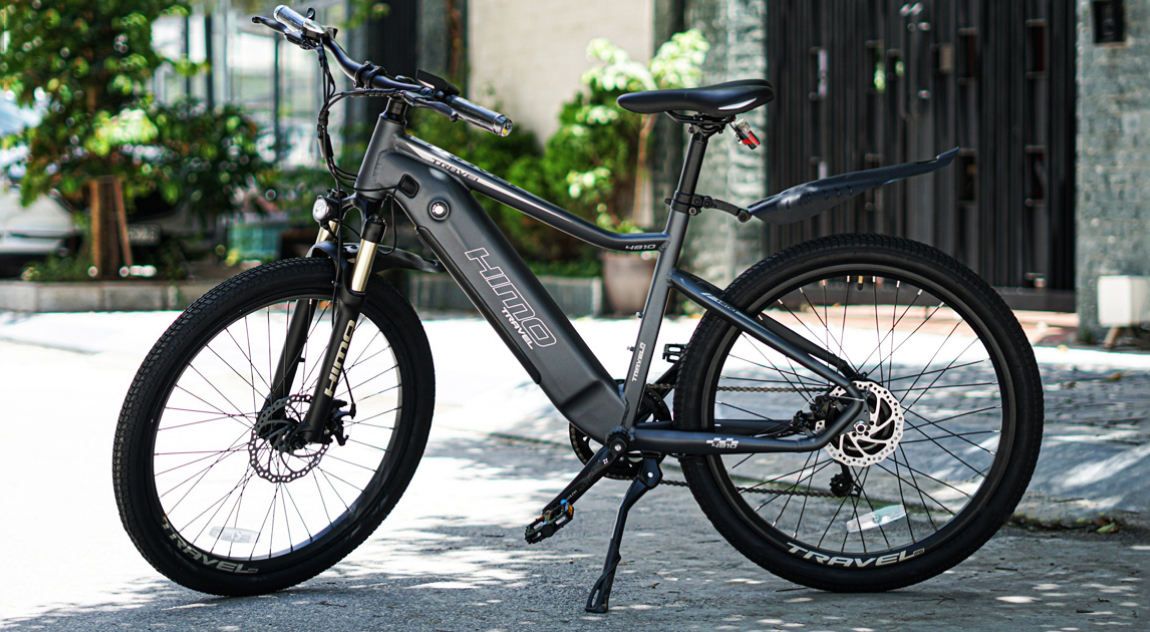
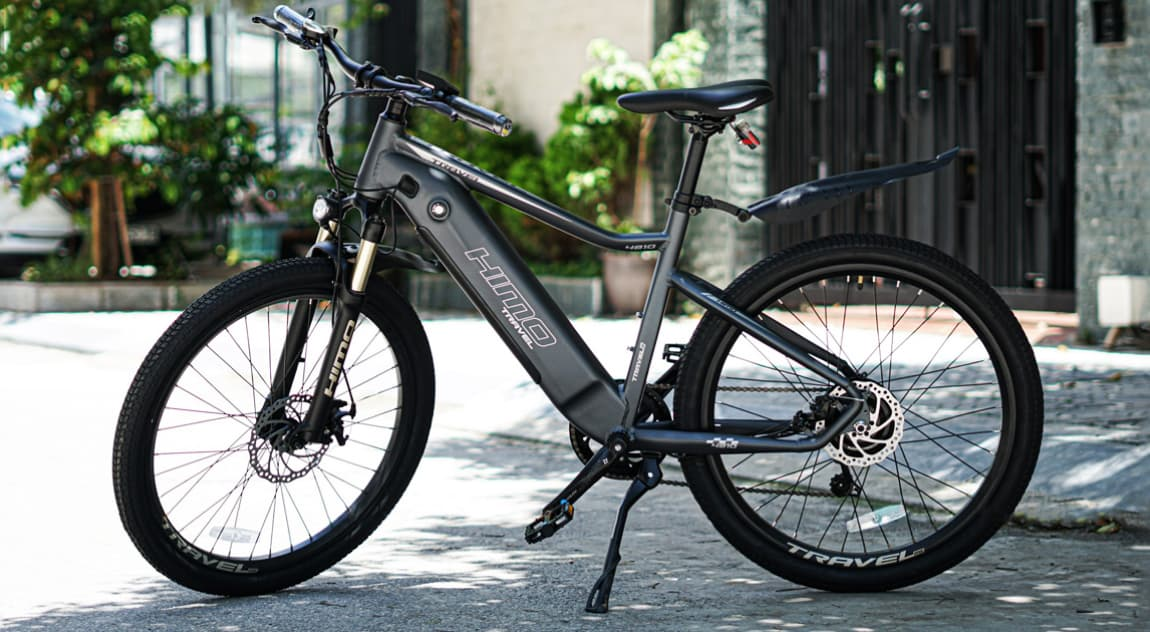
оптимизировал картинки

diff --git a/index.html b/index.html
@@ -48,10 +48,10 @@
                         </div>
                     </div>
                     <div class="xiaomi__slider">
-                        <div class="xiaomi__slider-item"><img src="./img/characteristics/bike.png" width="630" alt="bike"></div>
-                        <div class="xiaomi__slider-item"><img src="./img/characteristics/bike-2.png" width="630" alt="bike"></div>
-                        <div class="xiaomi__slider-item"><img src="./img/characteristics/bike-3.png" width="630" alt="bike"></div>
-                        <div class="xiaomi__slider-item"><img src="./img/characteristics/bike-4.png" width="630" alt="bike"></div>
+                        <div class="xiaomi__slider-item"><img src="./img/characteristics/bike.jpg" width="630" alt="bike"></div>
+                        <div class="xiaomi__slider-item"><img src="./img/characteristics/bike-2.jpg" width="630" alt="bike"></div>
+                        <div class="xiaomi__slider-item"><img src="./img/characteristics/bike-3.jpg" width="630" alt="bike"></div>
+                        <div class="xiaomi__slider-item"><img src="./img/characteristics/bike-4.jpg" width="630" alt="bike"></div>
                     </div>
                 </div>
             </div>
@@ -271,9 +271,9 @@
             <div class="picture__container container">
                 <div class="picture__slider">
                     <div class="picture__slider-item"><img src="./img/slider/slider.jpg" width="1200" alt="bike"></div>
-                    <div class="picture__slider-item"><img src="./img/slider/threebike.png" width="1200" alt="bike">
+                    <div class="picture__slider-item"><img src="./img/slider/threebike.jpg" width="1200" alt="bike">
                     </div>
-                    <div class="picture__slider-item"><img src="./img/slider/bikewithgirl.png" width="1200" alt="bike">
+                    <div class="picture__slider-item"><img src="./img/slider/bikewithgirl.jpg" width="1200" alt="bike">
                     </div>
                 </div>
             </div>
@@ -296,7 +296,7 @@
                                 <label class="sale__form">
                                     <input class="sale__form-radio" type="radio" name="radio" checked>
                                     <div class="sale__form-bike">
-                                        <img class="img__bike" src="./img/sale/himo.png" width="630" alt="bike-white">
+                                        <img class="img__bike" src="./img/sale/himo.jpg" width="630" alt="bike-white">
                                         <p class="sale__form-bike-prise"><span>33 999грн</span></p>
                                     </div>
                                     <div class="sale__form-radio-style sale__form-radio-style-white"></div>
@@ -304,7 +304,7 @@
                                 <label class="sale__form">
                                     <input class="sale__form-radio" type="radio" name="radio">
                                     <div class="sale__form-bike">
-                                        <img class="img__bike" src="./img/sale/himog.png" width="630" alt="bike-grey">
+                                        <img class="img__bike" src="./img/sale/himog.jpg" width="630" alt="bike-grey">
                                         <p class="sale__form-bike-prise"><span>32 999грн</span></p>
                                     </div>
                                     <div class="sale__form-radio-style sale__form-radio-style-grey"></div>
@@ -312,7 +312,7 @@
                                 <label class="sale__form">
                                     <input class="sale__form-radio" type="radio" name="radio">
                                     <div class="sale__form-bike">
-                                        <img class="img__bike" src="./img/sale/himor.png" width="630" alt="bike-red">
+                                        <img class="img__bike" src="./img/sale/himor.jpg" width="630" alt="bike-red">
                                         <p class="sale__form-bike-prise"><span>35 999грн</span></p>
                                     </div>
                                     <div class="sale__form-radio-style sale__form-radio-style-red"></div>
